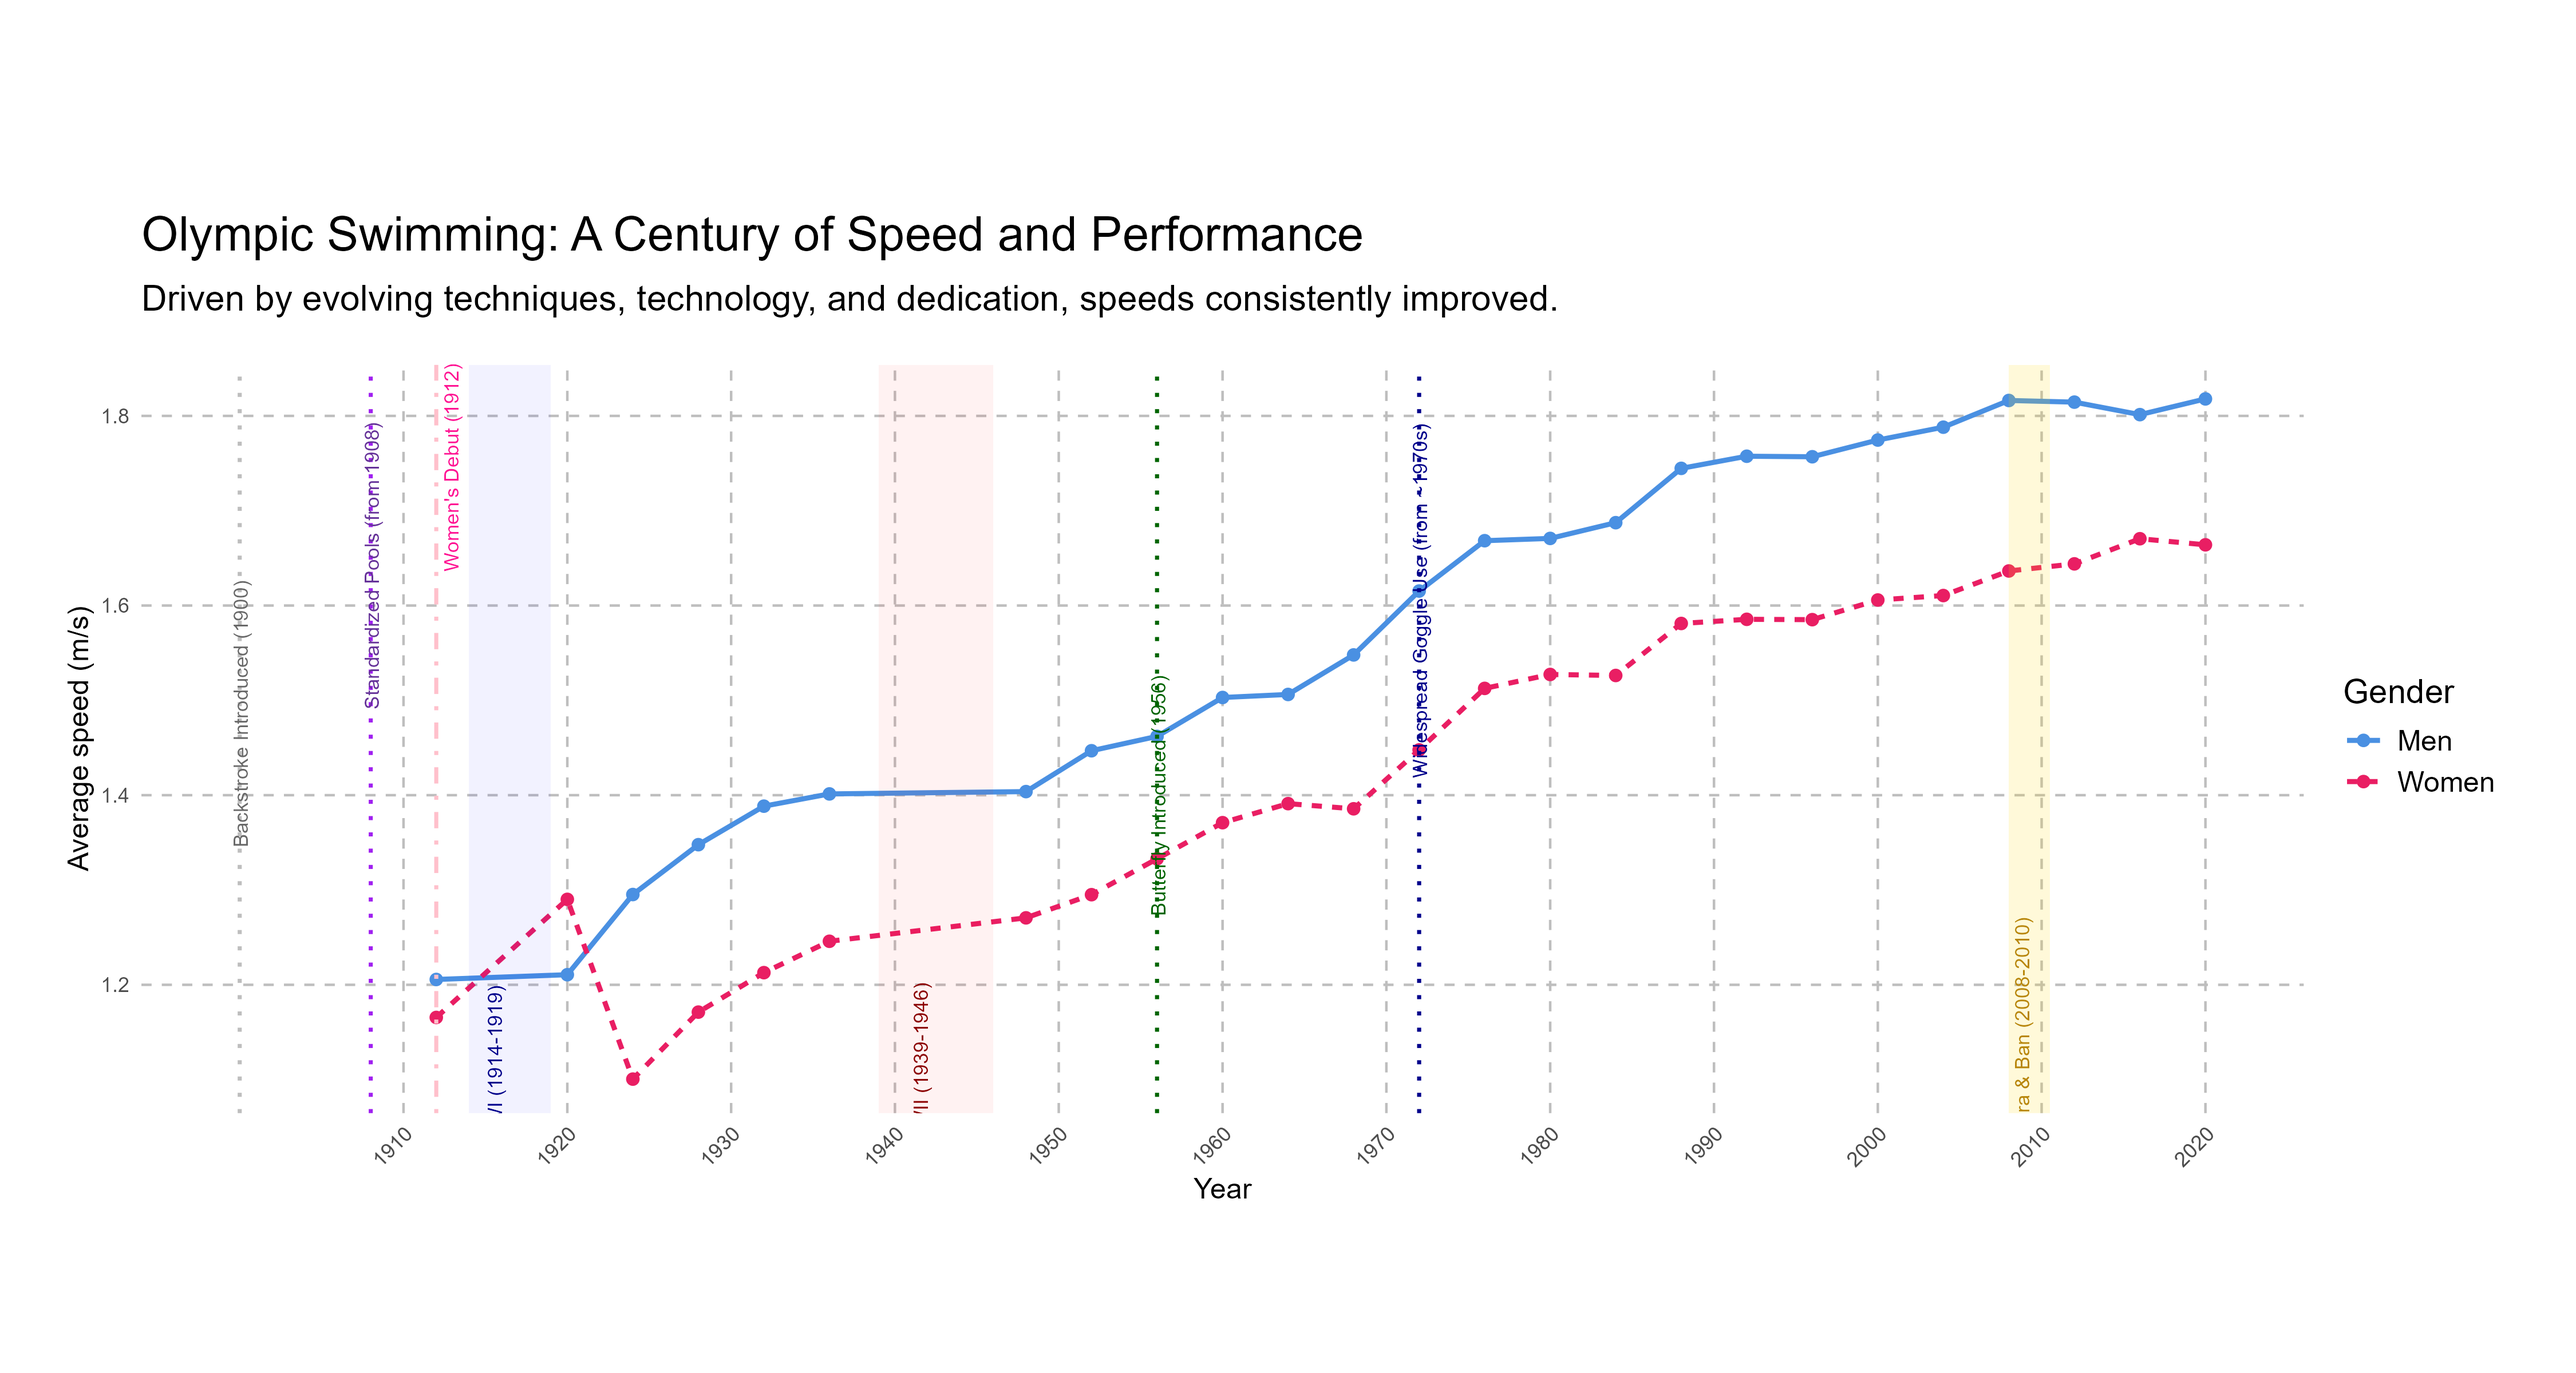
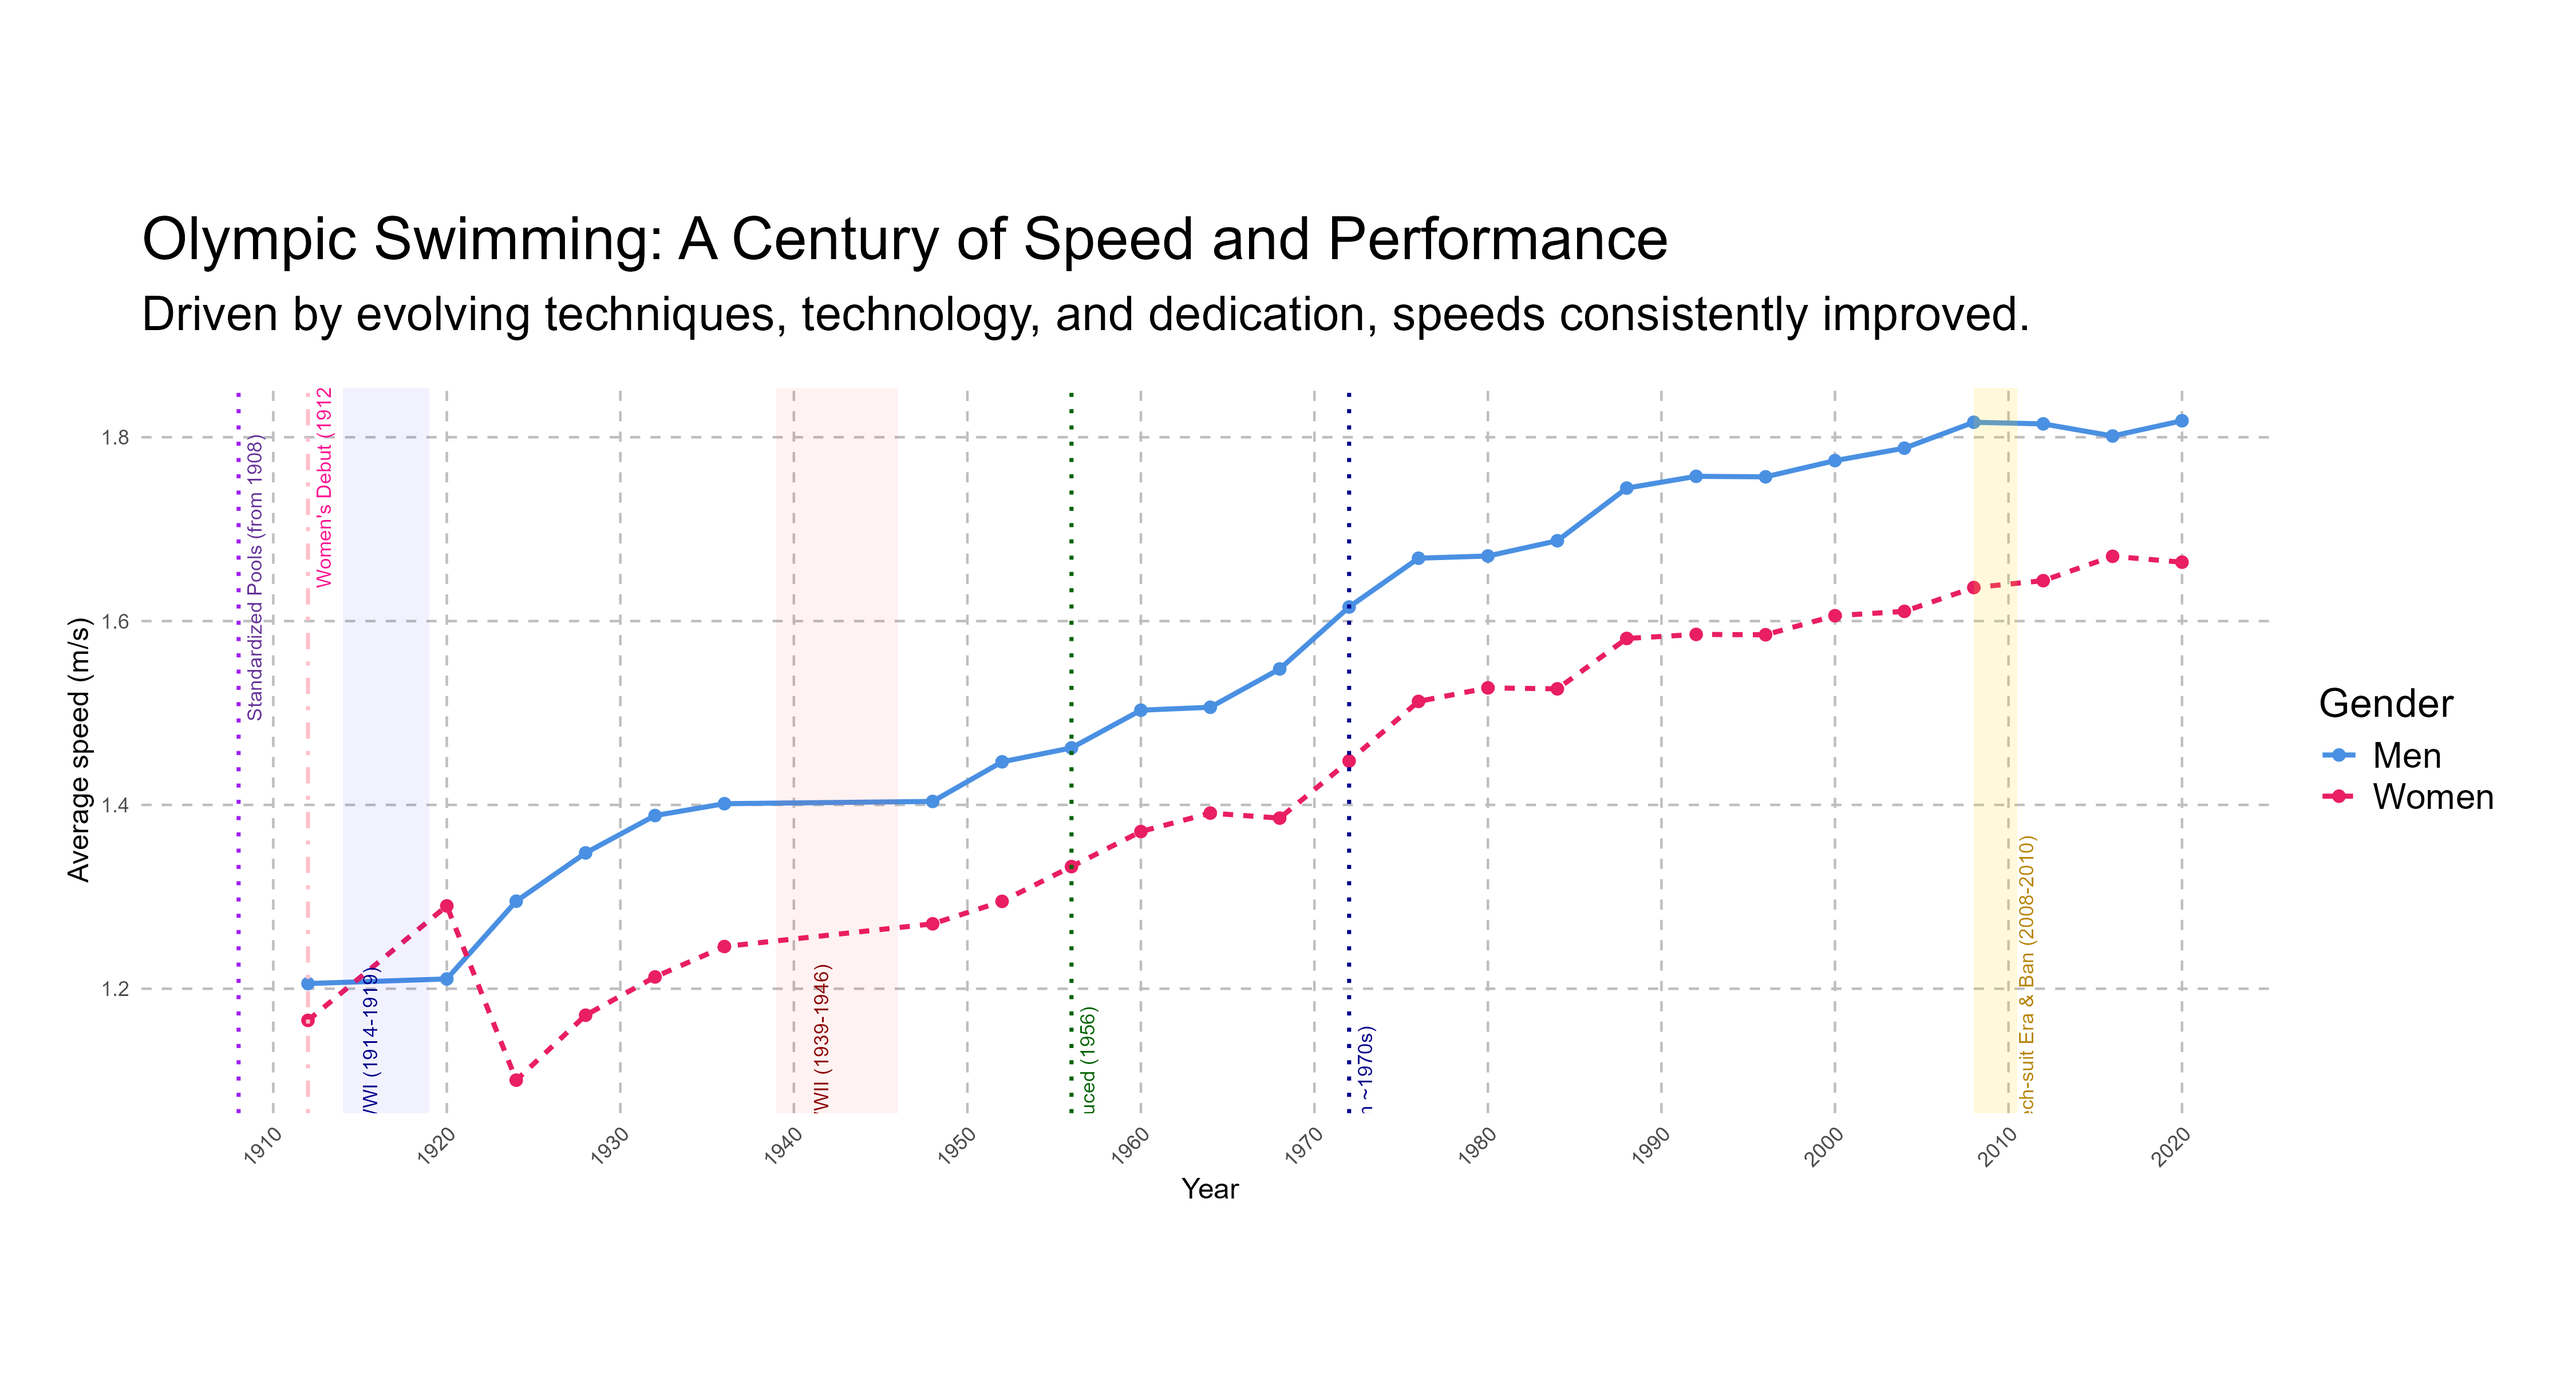
Fixed Labels for Main Plot

diff --git a/docs/index.html b/docs/index.html
@@ -141,7 +141,7 @@ ul.task-list li input[type="checkbox"] {
 <div class="cell-output-display">
 <div>
 <figure class="figure">
-<p><img src="index_files/figure-html/unnamed-chunk-6-1.png" class="img-fluid figure-img" width="1440"></p>
+<p><img src="index_files/figure-html/unnamed-chunk-6-1.png" class="img-fluid figure-img" width="1536"></p>
 </figure>
 </div>
 </div>
